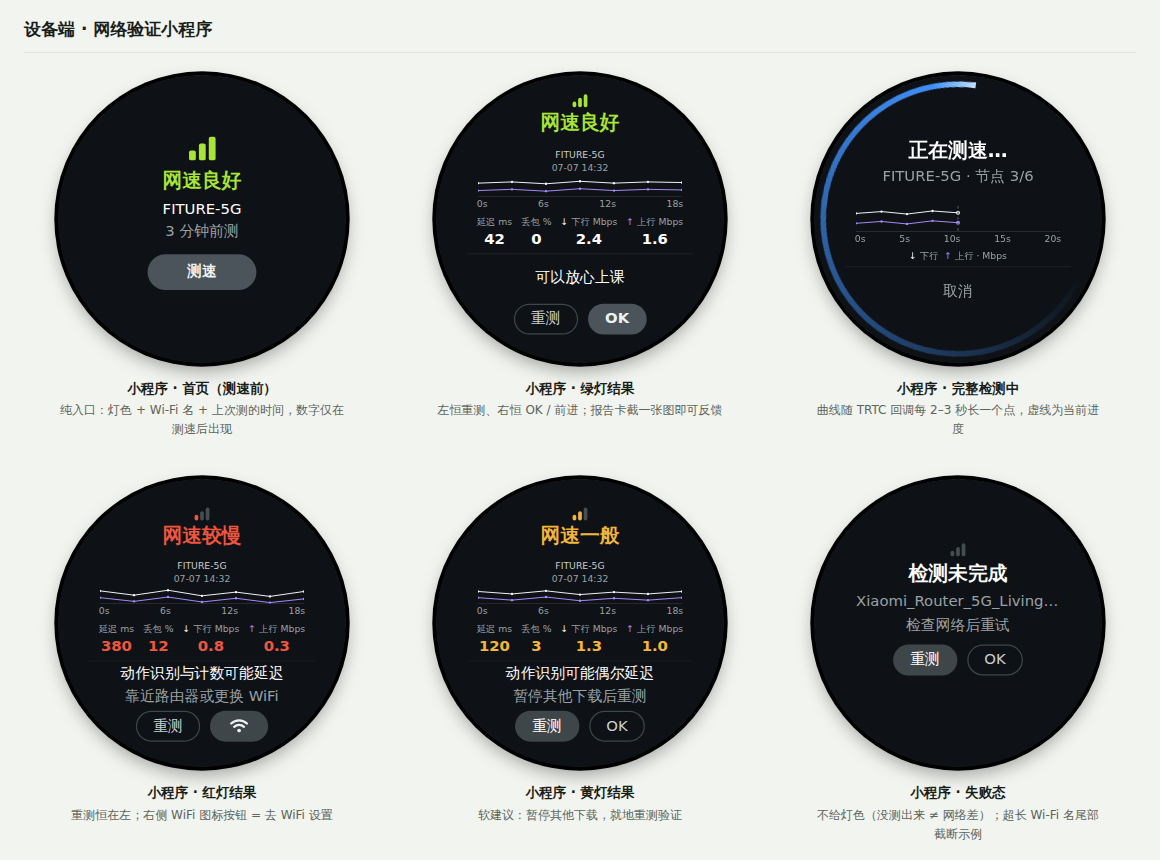
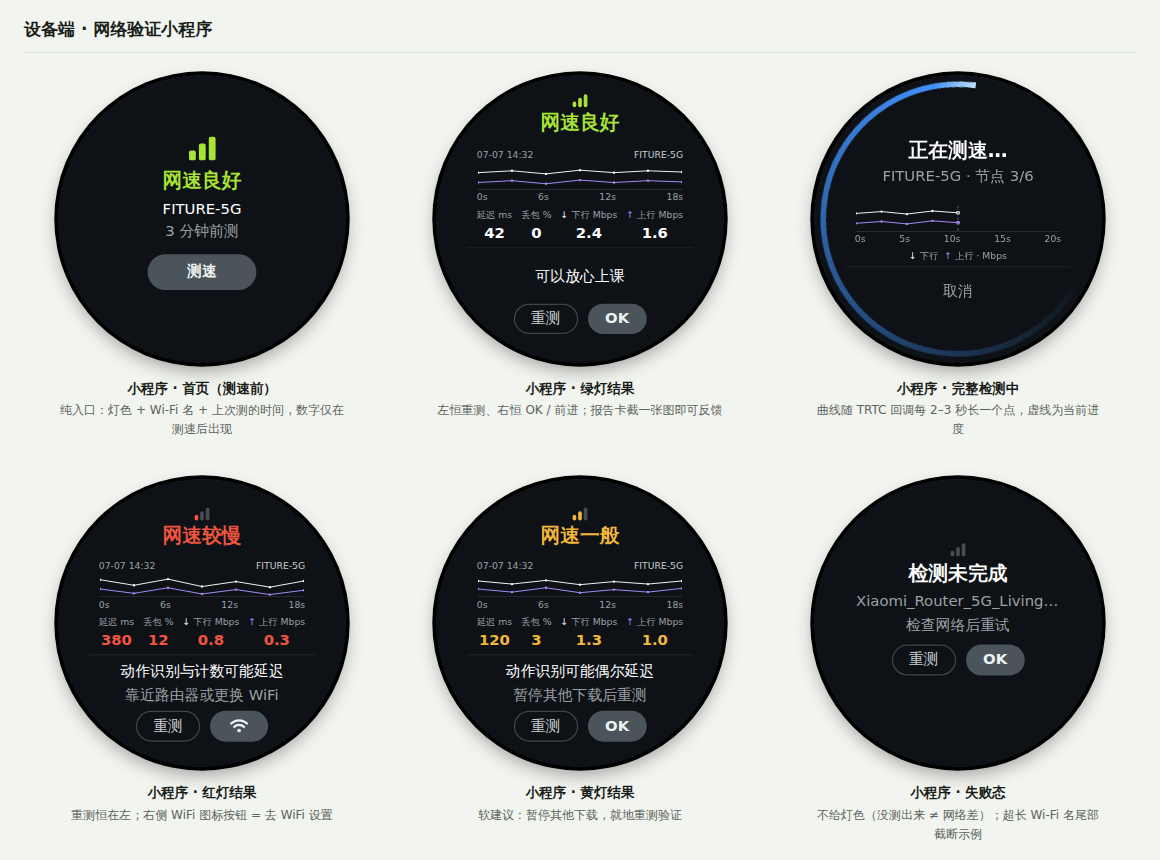
Button style binds to action; one-row header frees chart height
- Retest is outline in every state, OK/WiFi-icon solid in every state
  (style follows the action, not per-state priority - the same button
  no longer flips between filled and outlined across states)
- Header collapses to one justified row: date/time left (never
  truncates), SSID right (flexible, ellipsis, >=2-char gap); the
  saved row goes to taller waveforms (result charts 34/28 -> 42/36)
  and breathing room between the separator and the impact line
  (notes zone 76 -> 80 + 6 top margin)
- PRD A4.3/A4.4/A4.8 updated with the new rules and decision notes

Claude-Session: https://claude.ai/code/session_01GK61VJL6HvXSFdCeuPzjiU

diff --git a/Demo-界面交互UI设计.html b/Demo-界面交互UI设计.html
@@ -79,10 +79,10 @@
   .rc-metrics .v { font-size: 24px; font-weight: 600; }
   .rc-metrics .v span { font-size: 14px; }
   .rc-metrics .k { font-size: 15px; color: var(--dev-sub); margin: 0 0 2px; }
-  .rc-head { font-size: 15px; color: #c6ccce; max-width: 100%; line-height: 1.3; }
-  .rc-head .ssid { display: block; overflow: hidden; text-overflow: ellipsis; white-space: nowrap; max-width: 100%; }
-  .rc-date { font-size: 15px; color: var(--dev-sub); line-height: 1.3; margin: 1px 0 2px; text-align: center; }
-  .rc-notes { height: 76px; display: flex; flex-direction: column; align-items: center; justify-content: center; }
+  .rc-top { width: 100%; display: flex; justify-content: space-between; align-items: baseline; gap: 14px; font-size: 15px; line-height: 1.3; margin-bottom: 4px; }
+  .rc-top .dt { flex: none; color: var(--dev-sub); }
+  .rc-top .ssid { color: #c6ccce; overflow: hidden; text-overflow: ellipsis; white-space: nowrap; }
+  .rc-notes { height: 80px; margin-top: 6px; display: flex; flex-direction: column; align-items: center; justify-content: center; }
   .rc-axis { display: flex; justify-content: space-between; width: 100%; font-size: 15px; color: var(--dev-sub); margin-top: 2px; }
   .status-line { display: flex; align-items: center; justify-content: center; gap: 12px; min-height: 56px; font-size: 27px; color: #d4d8da; }
 
@@ -300,7 +300,7 @@
         <span class="bars sm"><i class="b1" style="background:var(--dev-good)"></i><i class="b2" style="background:var(--dev-good)"></i><i class="b3" style="background:var(--dev-good)"></i></span>
         <div class="big-status" style="margin-top:2px; font-size:32px; color:var(--dev-good)" data-en="Good speed">网速良好</div>
         <div class="report-card" style="margin-top:14px">
-          <div class="rc-head"><span class="ssid">FITURE-5G</span></div><div class="rc-date"><span>07-07 14:32</span></div><svg width="330" height="34" viewBox="0 0 330 34"><line x1="0" y1="33.5" x2="330" y2="33.5" stroke="rgba(255,255,255,.22)" stroke-width="1"/><polyline points="0,12 55,10 110,13 165,9 220,12 275,10 330,11" fill="none" stroke="#f2f5f6" stroke-width="1.6" stroke-linecap="round"/><circle cx="0" cy="12" r="1.9" fill="#f2f5f6"/><circle cx="55" cy="10" r="1.9" fill="#f2f5f6"/><circle cx="110" cy="13" r="1.9" fill="#f2f5f6"/><circle cx="165" cy="9" r="1.9" fill="#f2f5f6"/><circle cx="220" cy="12" r="1.9" fill="#f2f5f6"/><circle cx="275" cy="10" r="1.9" fill="#f2f5f6"/><circle cx="330" cy="11" r="1.9" fill="#f2f5f6"/><polyline points="0,24 55,22 110,25 165,21 220,24 275,22 330,23" fill="none" stroke="#a78bfa" stroke-width="1.6" stroke-linecap="round"/><circle cx="0" cy="24" r="1.9" fill="#a78bfa"/><circle cx="55" cy="22" r="1.9" fill="#a78bfa"/><circle cx="110" cy="25" r="1.9" fill="#a78bfa"/><circle cx="165" cy="21" r="1.9" fill="#a78bfa"/><circle cx="220" cy="24" r="1.9" fill="#a78bfa"/><circle cx="275" cy="22" r="1.9" fill="#a78bfa"/><circle cx="330" cy="23" r="1.9" fill="#a78bfa"/></svg><div class="rc-axis"><span>0s</span><span>6s</span><span>12s</span><span>18s</span></div>
+          <div class="rc-top"><span class="dt">07-07 14:32</span><span class="ssid">FITURE-5G</span></div><svg width="330" height="42" viewBox="0 0 330 42"><line x1="0" y1="41.5" x2="330" y2="41.5" stroke="rgba(255,255,255,.22)" stroke-width="1"/><polyline points="0,14 55,11 110,16 165,10 220,14 275,11 330,13" fill="none" stroke="#f2f5f6" stroke-width="1.6" stroke-linecap="round"/><circle cx="0" cy="14" r="1.9" fill="#f2f5f6"/><circle cx="55" cy="11" r="1.9" fill="#f2f5f6"/><circle cx="110" cy="16" r="1.9" fill="#f2f5f6"/><circle cx="165" cy="10" r="1.9" fill="#f2f5f6"/><circle cx="220" cy="14" r="1.9" fill="#f2f5f6"/><circle cx="275" cy="11" r="1.9" fill="#f2f5f6"/><circle cx="330" cy="13" r="1.9" fill="#f2f5f6"/><polyline points="0,30 55,27 110,32 165,26 220,30 275,27 330,29" fill="none" stroke="#a78bfa" stroke-width="1.6" stroke-linecap="round"/><circle cx="0" cy="30" r="1.9" fill="#a78bfa"/><circle cx="55" cy="27" r="1.9" fill="#a78bfa"/><circle cx="110" cy="32" r="1.9" fill="#a78bfa"/><circle cx="165" cy="26" r="1.9" fill="#a78bfa"/><circle cx="220" cy="30" r="1.9" fill="#a78bfa"/><circle cx="275" cy="27" r="1.9" fill="#a78bfa"/><circle cx="330" cy="29" r="1.9" fill="#a78bfa"/></svg><div class="rc-axis"><span>0s</span><span>6s</span><span>12s</span><span>18s</span></div>
           <div class="rc-metrics">
             <div><div class="k" data-en="Ping ms">延迟 ms</div><div class="v">42</div></div>
             <div><div class="k" data-en="Loss %">丢包 %</div><div class="v">0</div></div>
@@ -337,7 +337,7 @@
         <span class="bars sm"><i class="b1" style="background:var(--dev-bad)"></i><i class="b2 dim"></i><i class="b3 dim"></i></span>
         <div class="big-status" style="margin-top:2px; font-size:32px; color:var(--dev-bad)" data-en="Slow speed">网速较慢</div>
         <div class="report-card" style="margin-top:10px; padding-top:8px">
-          <div class="rc-head"><span class="ssid">FITURE-5G</span></div><div class="rc-date"><span>07-07 14:32</span></div><svg width="330" height="28" viewBox="0 0 330 28"><line x1="0" y1="27.5" x2="330" y2="27.5" stroke="rgba(255,255,255,.22)" stroke-width="1"/><polyline points="0,7 55,14 110,6 165,15 220,9 275,16 330,8" fill="none" stroke="#f2f5f6" stroke-width="1.6" stroke-linecap="round"/><circle cx="0" cy="7" r="1.9" fill="#f2f5f6"/><circle cx="55" cy="14" r="1.9" fill="#f2f5f6"/><circle cx="110" cy="6" r="1.9" fill="#f2f5f6"/><circle cx="165" cy="15" r="1.9" fill="#f2f5f6"/><circle cx="220" cy="9" r="1.9" fill="#f2f5f6"/><circle cx="275" cy="16" r="1.9" fill="#f2f5f6"/><circle cx="330" cy="8" r="1.9" fill="#f2f5f6"/><polyline points="0,18 55,24 110,17 165,25 220,19 275,26 330,20" fill="none" stroke="#a78bfa" stroke-width="1.6" stroke-linecap="round"/><circle cx="0" cy="18" r="1.9" fill="#a78bfa"/><circle cx="55" cy="24" r="1.9" fill="#a78bfa"/><circle cx="110" cy="17" r="1.9" fill="#a78bfa"/><circle cx="165" cy="25" r="1.9" fill="#a78bfa"/><circle cx="220" cy="19" r="1.9" fill="#a78bfa"/><circle cx="275" cy="26" r="1.9" fill="#a78bfa"/><circle cx="330" cy="20" r="1.9" fill="#a78bfa"/></svg><div class="rc-axis"><span>0s</span><span>6s</span><span>12s</span><span>18s</span></div>
+          <div class="rc-top"><span class="dt">07-07 14:32</span><span class="ssid">FITURE-5G</span></div><svg width="330" height="36" viewBox="0 0 330 36"><line x1="0" y1="35.5" x2="330" y2="35.5" stroke="rgba(255,255,255,.22)" stroke-width="1"/><polyline points="0,8 55,17 110,7 165,19 220,11 275,20 330,10" fill="none" stroke="#f2f5f6" stroke-width="1.6" stroke-linecap="round"/><circle cx="0" cy="8" r="1.9" fill="#f2f5f6"/><circle cx="55" cy="17" r="1.9" fill="#f2f5f6"/><circle cx="110" cy="7" r="1.9" fill="#f2f5f6"/><circle cx="165" cy="19" r="1.9" fill="#f2f5f6"/><circle cx="220" cy="11" r="1.9" fill="#f2f5f6"/><circle cx="275" cy="20" r="1.9" fill="#f2f5f6"/><circle cx="330" cy="10" r="1.9" fill="#f2f5f6"/><polyline points="0,23 55,30 110,21 165,31 220,24 275,32 330,25" fill="none" stroke="#a78bfa" stroke-width="1.6" stroke-linecap="round"/><circle cx="0" cy="23" r="1.9" fill="#a78bfa"/><circle cx="55" cy="30" r="1.9" fill="#a78bfa"/><circle cx="110" cy="21" r="1.9" fill="#a78bfa"/><circle cx="165" cy="31" r="1.9" fill="#a78bfa"/><circle cx="220" cy="24" r="1.9" fill="#a78bfa"/><circle cx="275" cy="32" r="1.9" fill="#a78bfa"/><circle cx="330" cy="25" r="1.9" fill="#a78bfa"/></svg><div class="rc-axis"><span>0s</span><span>6s</span><span>12s</span><span>18s</span></div>
           <div class="rc-metrics">
             <div><div class="k" data-en="Ping ms">延迟 ms</div><div class="v" style="color:var(--dev-bad)">380</div></div>
             <div><div class="k" data-en="Loss %">丢包 %</div><div class="v" style="color:var(--dev-bad)">12</div></div>
@@ -347,7 +347,7 @@
           </div>
         <div class="rc-notes"><div style="font-size:24px" data-en="Tracking & counting may lag">动作识别与计数可能延迟</div>
         <div class="advice" style="margin-top:3px; font-size:24px; width:370px" data-en="Move closer or switch Wi-Fi">靠近路由器或更换 WiFi</div></div>
-        <div class="btn-row"><div class="btn ghost" data-en="Retest">重测</div><div class="btn icon"><svg width="34" height="24" viewBox="10 18 32 20"><path d="M14 24a17 17 0 0 1 24 0" stroke="#eef2f3" stroke-width="3.4" fill="none" stroke-linecap="round"/><path d="M18.5 29a11 11 0 0 1 15 0" stroke="#eef2f3" stroke-width="3.4" fill="none" stroke-linecap="round"/><circle cx="26" cy="34.5" r="2.8" fill="#eef2f3"/></svg></div></div>
+        <div class="btn-row"><div class="btn ghost" data-en="Retest">重测</div><div class="btn icon primary"><svg width="34" height="24" viewBox="10 18 32 20"><path d="M14 24a17 17 0 0 1 24 0" stroke="#eef2f3" stroke-width="3.4" fill="none" stroke-linecap="round"/><path d="M18.5 29a11 11 0 0 1 15 0" stroke="#eef2f3" stroke-width="3.4" fill="none" stroke-linecap="round"/><circle cx="26" cy="34.5" r="2.8" fill="#eef2f3"/></svg></div></div>
         <div style="flex:.7"></div>
       </div></div>
       <figcaption><b>小程序 · 红灯结果</b><span>重测恒在左；右侧 WiFi 图标按钮 = 去 WiFi 设置</span></figcaption>
@@ -359,7 +359,7 @@
         <span class="bars sm"><i class="b1" style="background:var(--dev-warn)"></i><i class="b2" style="background:var(--dev-warn)"></i><i class="b3 dim"></i></span>
         <div class="big-status" style="margin-top:2px; font-size:32px; color:var(--dev-warn)" data-en="Fair speed">网速一般</div>
         <div class="report-card" style="margin-top:10px; padding-top:8px">
-          <div class="rc-head"><span class="ssid">FITURE-5G</span></div><div class="rc-date"><span>07-07 14:32</span></div><svg width="330" height="28" viewBox="0 0 330 28"><line x1="0" y1="27.5" x2="330" y2="27.5" stroke="rgba(255,255,255,.22)" stroke-width="1"/><polyline points="0,8 55,12 110,7 165,13 220,9 275,12 330,8" fill="none" stroke="#f2f5f6" stroke-width="1.6" stroke-linecap="round"/><circle cx="0" cy="8" r="1.9" fill="#f2f5f6"/><circle cx="55" cy="12" r="1.9" fill="#f2f5f6"/><circle cx="110" cy="7" r="1.9" fill="#f2f5f6"/><circle cx="165" cy="13" r="1.9" fill="#f2f5f6"/><circle cx="220" cy="9" r="1.9" fill="#f2f5f6"/><circle cx="275" cy="12" r="1.9" fill="#f2f5f6"/><circle cx="330" cy="8" r="1.9" fill="#f2f5f6"/><polyline points="0,18 55,22 110,17 165,23 220,19 275,22 330,18" fill="none" stroke="#a78bfa" stroke-width="1.6" stroke-linecap="round"/><circle cx="0" cy="18" r="1.9" fill="#a78bfa"/><circle cx="55" cy="22" r="1.9" fill="#a78bfa"/><circle cx="110" cy="17" r="1.9" fill="#a78bfa"/><circle cx="165" cy="23" r="1.9" fill="#a78bfa"/><circle cx="220" cy="19" r="1.9" fill="#a78bfa"/><circle cx="275" cy="22" r="1.9" fill="#a78bfa"/><circle cx="330" cy="18" r="1.9" fill="#a78bfa"/></svg><div class="rc-axis"><span>0s</span><span>6s</span><span>12s</span><span>18s</span></div>
+          <div class="rc-top"><span class="dt">07-07 14:32</span><span class="ssid">FITURE-5G</span></div><svg width="330" height="36" viewBox="0 0 330 36"><line x1="0" y1="35.5" x2="330" y2="35.5" stroke="rgba(255,255,255,.22)" stroke-width="1"/><polyline points="0,10 55,15 110,9 165,16 220,11 275,15 330,10" fill="none" stroke="#f2f5f6" stroke-width="1.6" stroke-linecap="round"/><circle cx="0" cy="10" r="1.9" fill="#f2f5f6"/><circle cx="55" cy="15" r="1.9" fill="#f2f5f6"/><circle cx="110" cy="9" r="1.9" fill="#f2f5f6"/><circle cx="165" cy="16" r="1.9" fill="#f2f5f6"/><circle cx="220" cy="11" r="1.9" fill="#f2f5f6"/><circle cx="275" cy="15" r="1.9" fill="#f2f5f6"/><circle cx="330" cy="10" r="1.9" fill="#f2f5f6"/><polyline points="0,23 55,28 110,21 165,29 220,24 275,28 330,22" fill="none" stroke="#a78bfa" stroke-width="1.6" stroke-linecap="round"/><circle cx="0" cy="23" r="1.9" fill="#a78bfa"/><circle cx="55" cy="28" r="1.9" fill="#a78bfa"/><circle cx="110" cy="21" r="1.9" fill="#a78bfa"/><circle cx="165" cy="29" r="1.9" fill="#a78bfa"/><circle cx="220" cy="24" r="1.9" fill="#a78bfa"/><circle cx="275" cy="28" r="1.9" fill="#a78bfa"/><circle cx="330" cy="22" r="1.9" fill="#a78bfa"/></svg><div class="rc-axis"><span>0s</span><span>6s</span><span>12s</span><span>18s</span></div>
           <div class="rc-metrics">
             <div><div class="k" data-en="Ping ms">延迟 ms</div><div class="v" style="color:var(--dev-warn)">120</div></div>
             <div><div class="k" data-en="Loss %">丢包 %</div><div class="v" style="color:var(--dev-warn)">3</div></div>
@@ -369,7 +369,7 @@
           </div>
         <div class="rc-notes"><div style="font-size:24px" data-en="Pose tracking may lag at times">动作识别可能偶尔延迟</div>
         <div class="advice" style="margin-top:3px; font-size:24px; width:370px" data-en="Pause other downloads, retest">暂停其他下载后重测</div></div>
-        <div class="btn-row"><div class="btn" data-en="Retest">重测</div><div class="btn ghost">OK</div></div>
+        <div class="btn-row"><div class="btn ghost" data-en="Retest">重测</div><div class="btn primary">OK</div></div>
         <div style="flex:.7"></div>
       </div></div>
       <figcaption><b>小程序 · 黄灯结果</b><span>软建议：暂停其他下载，就地重测验证</span></figcaption>
@@ -382,7 +382,7 @@
         <div class="big-status" style="font-size:32px; margin-top:6px" data-en="Test incomplete">检测未完成</div>
         <div style="font-size:24px; color:var(--dev-sub); margin-top:6px; max-width:330px; overflow:hidden; text-overflow:ellipsis; white-space:nowrap">Xiaomi_Router_5G_LivingRoom_2401</div>
         <div class="advice" style="margin-top:4px" data-en="Check network and retry">检查网络后重试</div>
-        <div class="btn-row" style="margin-top:14px"><div class="btn" data-en="Retest">重测</div><div class="btn ghost">OK</div></div>
+        <div class="btn-row" style="margin-top:14px"><div class="btn ghost" data-en="Retest">重测</div><div class="btn primary">OK</div></div>
         <div style="flex:1"></div>
       </div></div>
       <figcaption><b>小程序 · 失败态</b><span>不给灯色（没测出来 ≠ 网络差）；超长 Wi-Fi 名尾部截断示例</span></figcaption>

diff --git a/PRD-atom网络状态检测与信号同步.md b/PRD-atom网络状态检测与信号同步.md
@@ -118,7 +118,7 @@ ATOM 是一台通过 WiFi 联网的嵌入式训练设备，上课时通过 TRTC 
 
 - **A4.1 首页 = 纯入口（测速前）**：灯色 bars + 一句话结论 + **当前 Wi-Fi 名（SSID）** + 副行数据时效（「刚刚更新」≤60 秒 /「N 分钟前测」≤5 分钟）+ 主按钮「测速」。SSID 必须外显——用户点进来看「网好不好」时往往不知道自己连的是哪个 WiFi，灯色结论必须挂在具体网络名下才可归因（与 B2 按 SSID 缓存一致）。**不展示任何数字指标**——常驻探测没有真实带宽，数字只在测速后出现，「测速前 = 入口、测速后 = 报告」天然可区分；缓存超 5 分钟不显示旧灯色，直接「检测中…」并刷新；
 - **A4.2 检测中**：标题「正在测速…」+ 副行「Wi-Fi: {SSID} · 节点 N / M」（按官方回调驱动，不做假进度）+ 报告卡内波形实时生长（↓ 灰白 = 下行、↑ 紫 = 上行，见 A4.7）+「取消」（调用 `stopSpeedTest`）；按钮防重入（官方限制同一时间仅一个测速任务）；
-- **A4.3 结果页信息分组（四组，组间距 > 组内距）**：① 结论（bars + 一句话，**标题文字直接用灯色着色**——绿「网速良好」/ 黄「网速一般」/ 红「网速较慢」，四态位置与字号完全一致；去掉状态色环后页面需要一个明确的主视觉色，结论标题是最佳载体：位置最高、字号最大、语义即结论；失败态标题保持白色——没测出来不给灯色）→ ② **报告卡**，卡内自上而下：**表头两行——第 1 行 SSID（超长截断）、第 2 行日期时间（独占一行，永不被 SSID 挤掉）**，不加「Wi-Fi:」前缀（上下文已明确，标签属冗余；带日期是为了反馈截图能和后端日志对上，方便 debug）→ 波形定格 + 时间轴（表头两行**均居中**——单位并入四指标列标题后，第二行不再有右端元素，日期时间回归居中与 SSID 对齐；曲线纵轴 = 上下行带宽，检测中页无指标列，单位并入图例行「↓ 下行 ↑ 上行 · Mbps」）→ 四指标一行：**单位写全并入列标题**——「延迟 ms / 丢包 % / ↓ 下行 Mbps / ↑ 上行 Mbps」（EN：Ping ms / Loss % / Down / Up），数值为裸数字大字。**决策记录**：早期稿用「2.4 M」缩写被质疑单位不明——M 即 Mbps，应写全；但写在每个数字后（2.4 Mbps）会把数值挤小或超宽，单位写进列标题则每列只写一次、数字保持醒目，且表头右侧的 Mbps 角标随之取消（单位单一来源，不再两处标注）。**标签在上、数值在下**（对比过数值在上的方案：标签在上阅读顺序自然「先知道是什么再看多少」、↓↑ 箭头更靠近它解释的曲线、卡片底边收在加粗数值上更稳，与 Ookla 等主流测速工具一致；标签带曲线同色箭头；-1 显示「—」；着色标准见下表）→ ③ 影响 + 建议（绿灯影响行 = 正向一句「可以放心上课」，黄 / 红 = 风险提示；**影响与建议一律白 / 灰、不着色**——结论标题已带灯色，引导文案再着色就花了，颜色只留给「结论」和「超标指标」两处；**各固定一行，字数预算：中文 ≤ 14 全角、EN ≤ 30 字符**——这两处是我们自己维护的固定文案集而非动态内容，靠文案表管控长度即可；**不采用跑马灯**：滚动文字在 1–2 米观看距离难读，且截图会截到半句话，破坏「截图即报告」）→ ④ 操作：**双按钮左右排列**（替代上下堆叠：节省约一行高度，页面更舒缓，也更符合圆屏底部的横向空间），槽位与样式规则见 A4.4——左槽恒「重测」、右槽恒「OK / 前进」，主次靠实底 / 描边表达。**影响 / 建议 + 按钮组成固定高度的操作区，主 / 次按钮的位置在绿 / 黄 / 红 / 失败四态间完全一致**——重测循环里按钮不位移，防误触、建立肌肉记忆。**决策记录**：对比过「按钮沉底 + 报告卡在剩余空间垂直居中」的动态布局——被否，动态居中会让绿灯与黄 / 红灯的报告卡处在不同高度，状态切换跳动、两张截图对不齐；改为绿灯操作区补一句正向文案，空间用满且布局全态一致。**一张报告卡 = 一份完整测速报告，截图即可反馈客服**（截图给人看，上报给系统看）。稳定性派生标签：样本方差超阈值时卡下方显示「网络波动较大」。
+- **A4.3 结果页信息分组（四组，组间距 > 组内距）**：① 结论（bars + 一句话，**标题文字直接用灯色着色**——绿「网速良好」/ 黄「网速一般」/ 红「网速较慢」，四态位置与字号完全一致；去掉状态色环后页面需要一个明确的主视觉色，结论标题是最佳载体：位置最高、字号最大、语义即结论；失败态标题保持白色——没测出来不给灯色）→ ② **报告卡**，卡内自上而下：**表头一行、两端对齐——日期时间居左（完整显示优先，永不截断）、SSID 居右（弹性宽度，超宽尾部省略号，与日期至少保留 2 字符间距）**，不加「Wi-Fi:」前缀（上下文已明确，标签属冗余；带日期是为了反馈截图能和后端日志对上，方便 debug）→ 波形定格 + 时间轴（表头合并为一行省出的高度给了**波形增高**与**分隔线下方的操作区行距**；曲线纵轴 = 上下行带宽，检测中页无指标列，单位并入图例行「↓ 下行 ↑ 上行 · Mbps」）→ 四指标一行：**单位写全并入列标题**——「延迟 ms / 丢包 % / ↓ 下行 Mbps / ↑ 上行 Mbps」（EN：Ping ms / Loss % / Down / Up），数值为裸数字大字。**决策记录**：早期稿用「2.4 M」缩写被质疑单位不明——M 即 Mbps，应写全；但写在每个数字后（2.4 Mbps）会把数值挤小或超宽，单位写进列标题则每列只写一次、数字保持醒目，且表头右侧的 Mbps 角标随之取消（单位单一来源，不再两处标注）。**标签在上、数值在下**（对比过数值在上的方案：标签在上阅读顺序自然「先知道是什么再看多少」、↓↑ 箭头更靠近它解释的曲线、卡片底边收在加粗数值上更稳，与 Ookla 等主流测速工具一致；标签带曲线同色箭头；-1 显示「—」；着色标准见下表）→ ③ 影响 + 建议（绿灯影响行 = 正向一句「可以放心上课」，黄 / 红 = 风险提示；**影响与建议一律白 / 灰、不着色**——结论标题已带灯色，引导文案再着色就花了，颜色只留给「结论」和「超标指标」两处；**各固定一行，字数预算：中文 ≤ 14 全角、EN ≤ 30 字符**——这两处是我们自己维护的固定文案集而非动态内容，靠文案表管控长度即可；**不采用跑马灯**：滚动文字在 1–2 米观看距离难读，且截图会截到半句话，破坏「截图即报告」）→ ④ 操作：**双按钮左右排列**（替代上下堆叠：节省约一行高度，页面更舒缓，也更符合圆屏底部的横向空间），槽位与样式规则见 A4.4——左槽恒「重测」、右槽恒「OK / 前进」，主次靠实底 / 描边表达。**影响 / 建议 + 按钮组成固定高度的操作区，主 / 次按钮的位置在绿 / 黄 / 红 / 失败四态间完全一致**——重测循环里按钮不位移，防误触、建立肌肉记忆。**决策记录**：对比过「按钮沉底 + 报告卡在剩余空间垂直居中」的动态布局——被否，动态居中会让绿灯与黄 / 红灯的报告卡处在不同高度，状态切换跳动、两张截图对不齐；改为绿灯操作区补一句正向文案，空间用满且布局全态一致。**一张报告卡 = 一份完整测速报告，截图即可反馈客服**（截图给人看，上报给系统看）。稳定性派生标签：样本方差超阈值时卡下方显示「网络波动较大」。
 
   **指标着色标准**（阈值与模块 B4 同源、OTA 可调；数值默认白色，超阈值才变色）：
 
@@ -130,16 +130,16 @@ ATOM 是一台通过 WiFi 联网的嵌入式训练设备，上课时通过 TRTC 
   | ↑ 上行 | ≥ 期望 1.5 Mbps | 期望的 60–100%（0.9–1.5M） | < 60%（< 0.9M） |
 
   每个指标**独立**按自己的阈值着色；整页灯色结论仍以 TRTC `quality` 为准，两者允许不一致（如整体黄灯但上行单项标红）——着色的作用是让用户一眼看出**卡在哪一项**；
-- **A4.4 按钮逻辑（位置恒定 + 主按钮 = 最短解决路径）**：**位置语义固定——左槽恒为「重测」，右槽恒为「OK / 前进」类动作**；主次不靠位置表达，靠样式表达——**按钮只有两种：实底浅灰、描边线框**，不使用高亮绿等强调色：本页动作都是中性操作（关闭 / 重测 / 去设置），没有强 call-to-action 语义，且绿色按钮会与「绿灯」状态语义混淆，绿色只属于灯。「完成」统一改为「OK」（更短，中英文同形）；红灯右槽为 **WiFi 扇形图标按钮**（图标即「去 WiFi 设置」语义，省文字且宽度可控）：
+- **A4.4 按钮逻辑（位置恒定 + 主按钮 = 最短解决路径）**：**位置语义固定——左槽恒为「重测」，右槽恒为「OK / 前进」类动作**；**样式绑定动作而非主次——「重测」恒描边线框，「OK / WiFi 图标」恒实底浅灰**：同一动作在任何状态下长相一致，跨状态零学习成本（曾按「本状态主按钮」切换实底/描边，被否——同一个重测按钮时实时虚，反而制造困惑）。不使用高亮绿等强调色：本页动作都是中性操作，没有强 call-to-action 语义，且绿色按钮会与「绿灯」状态语义混淆，绿色只属于灯。「完成」统一改为「OK」（更短，中英文同形）；红灯右槽为 **WiFi 扇形图标按钮**（图标即「去 WiFi 设置」语义，省文字且宽度可控）：
 
-| 状态 | 左槽（恒 = 重测） | 右槽（恒 = OK / 前进） | 主按钮（实底） | 理由 |
+| 状态 | 左槽（恒 = 重测，描边） | 右槽（恒 = OK / 前进，实底） | 推荐动作（语义） | 理由 |
 | --- | --- | --- | --- | --- |
-| 首页 | — | 测速（单按钮居中） | 测速 | 本页唯一动作 |
-| 检测中 | — | 取消（单按钮居中） | — | 等待可中止 |
-| 结果 · 绿 | 重测（描边） | OK（实底） | OK | 没问题最短路径是离开；存疑可就地复测 |
-| 结果 · 黄 | 重测（实底） | OK（描边） | 重测 | 建议是软动作（暂停下载），做完就地验证 |
-| 结果 · 红 | 重测（描边） | WiFi 图标（实底） | WiFi 图标 | 建议是硬动作（换网 / 挪设备）；什么都不改就重测结果不会变 |
-| 失败态 | 重测（实底） | OK（描边） | 重测 | 任务未完成，重试是唯一有效动作 |
+| 首页 | — | 测速（单按钮居中，实底） | 测速 | 本页唯一动作 |
+| 检测中 | — | 取消（单按钮居中，文字） | — | 等待可中止 |
+| 结果 · 绿 | 重测 | OK | OK | 没问题最短路径是离开；存疑可就地复测 |
+| 结果 · 黄 | 重测 | OK | 重测（建议是软动作，做完就地验证） | 暂停下载后重测 |
+| 结果 · 红 | 重测 | WiFi 图标 | 去 WiFi 设置 | 建议是硬动作（换网 / 挪设备）；什么都不改就重测结果不会变 |
+| 失败态 | 重测 | OK | 重测 | 任务未完成，重试是唯一有效动作 |
 
 - **A4.5 失败态**：`success = false` 时**不给任何灯色**（没测出来 ≠ 网络差），「检测未完成 / 检查网络后重试」；`errMsg` 仅上报不上屏；
 - **A4.6 历史与精简**：结果本地存近 10 次（按 SSID 分组）并上报；小程序内「历史记录」次级入口（P2）；各页面移除顶部时钟（与检测任务无关的信息不上屏）；
@@ -158,7 +158,7 @@ ATOM 是一台通过 WiFi 联网的嵌入式训练设备，上课时通过 TRTC 
 
 | 场景 | 处理 |
 | --- | --- |
-| **超长 SSID**（中文 / emoji / 32 字节长名） | 表头两行制：SSID 独占第 1 行、超宽尾部省略号（可用满卡宽约 19 半角字符）；日期时间独立第 2 行，**任何情况下完整可见**；首页 / 检测中 / WiFi 列表行同规则 |
+| **超长 SSID**（中文 / emoji / 32 字节长名） | 表头一行两端对齐：日期时间居左**永不截断**，SSID 居右弹性截断（尾部省略号，与日期至少留 2 字符间距）；首页 / 检测中 / WiFi 列表行同规则 |
 | 隐藏 SSID / 名称为空 | 显示占位「已连接网络」 |
 | **从未测过速**（新机 / 恢复出厂） | 首页三格全暗 +「尚未测速」，不显示时效行；主按钮「测速」不变 |
 | **未连接 WiFi 进入小程序** | 「未连接 WiFi」+ 主按钮「WiFi 设置」，隐藏测速按钮（测了也没有意义） |
